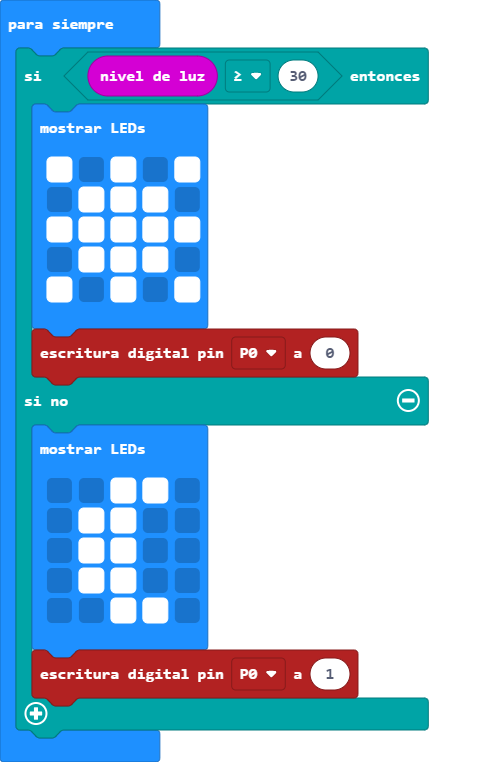
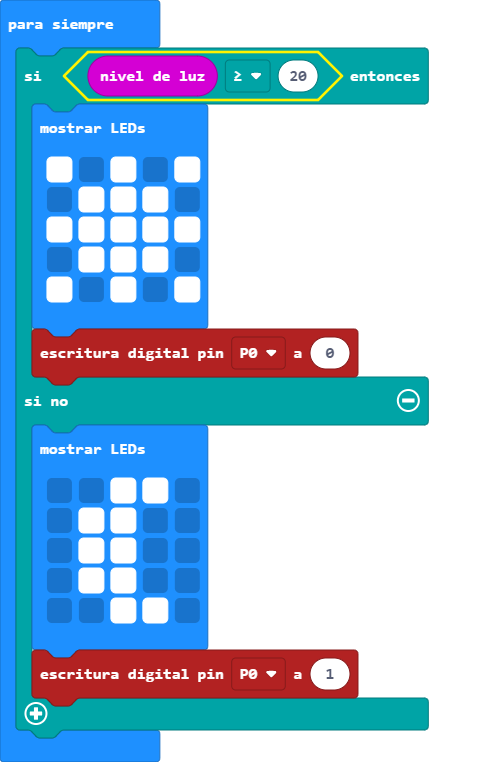
Bajado aun más el umbral de luz, a 20

Changed region(s): [[0.1562, 0.0604, 0.6875, 0.1509], [0.6875, 0.0906, 0.7188, 0.1207], [0.125, 0.0906, 0.1562, 0.1207]]

diff --git a/main.ts b/main.ts
@@ -1,5 +1,5 @@
 basic.forever(function () {
-    if (input.lightLevel() >= 30) {
+    if (input.lightLevel() >= 20) {
         basic.showLeds(`
             # . # . #
             . # # # .
